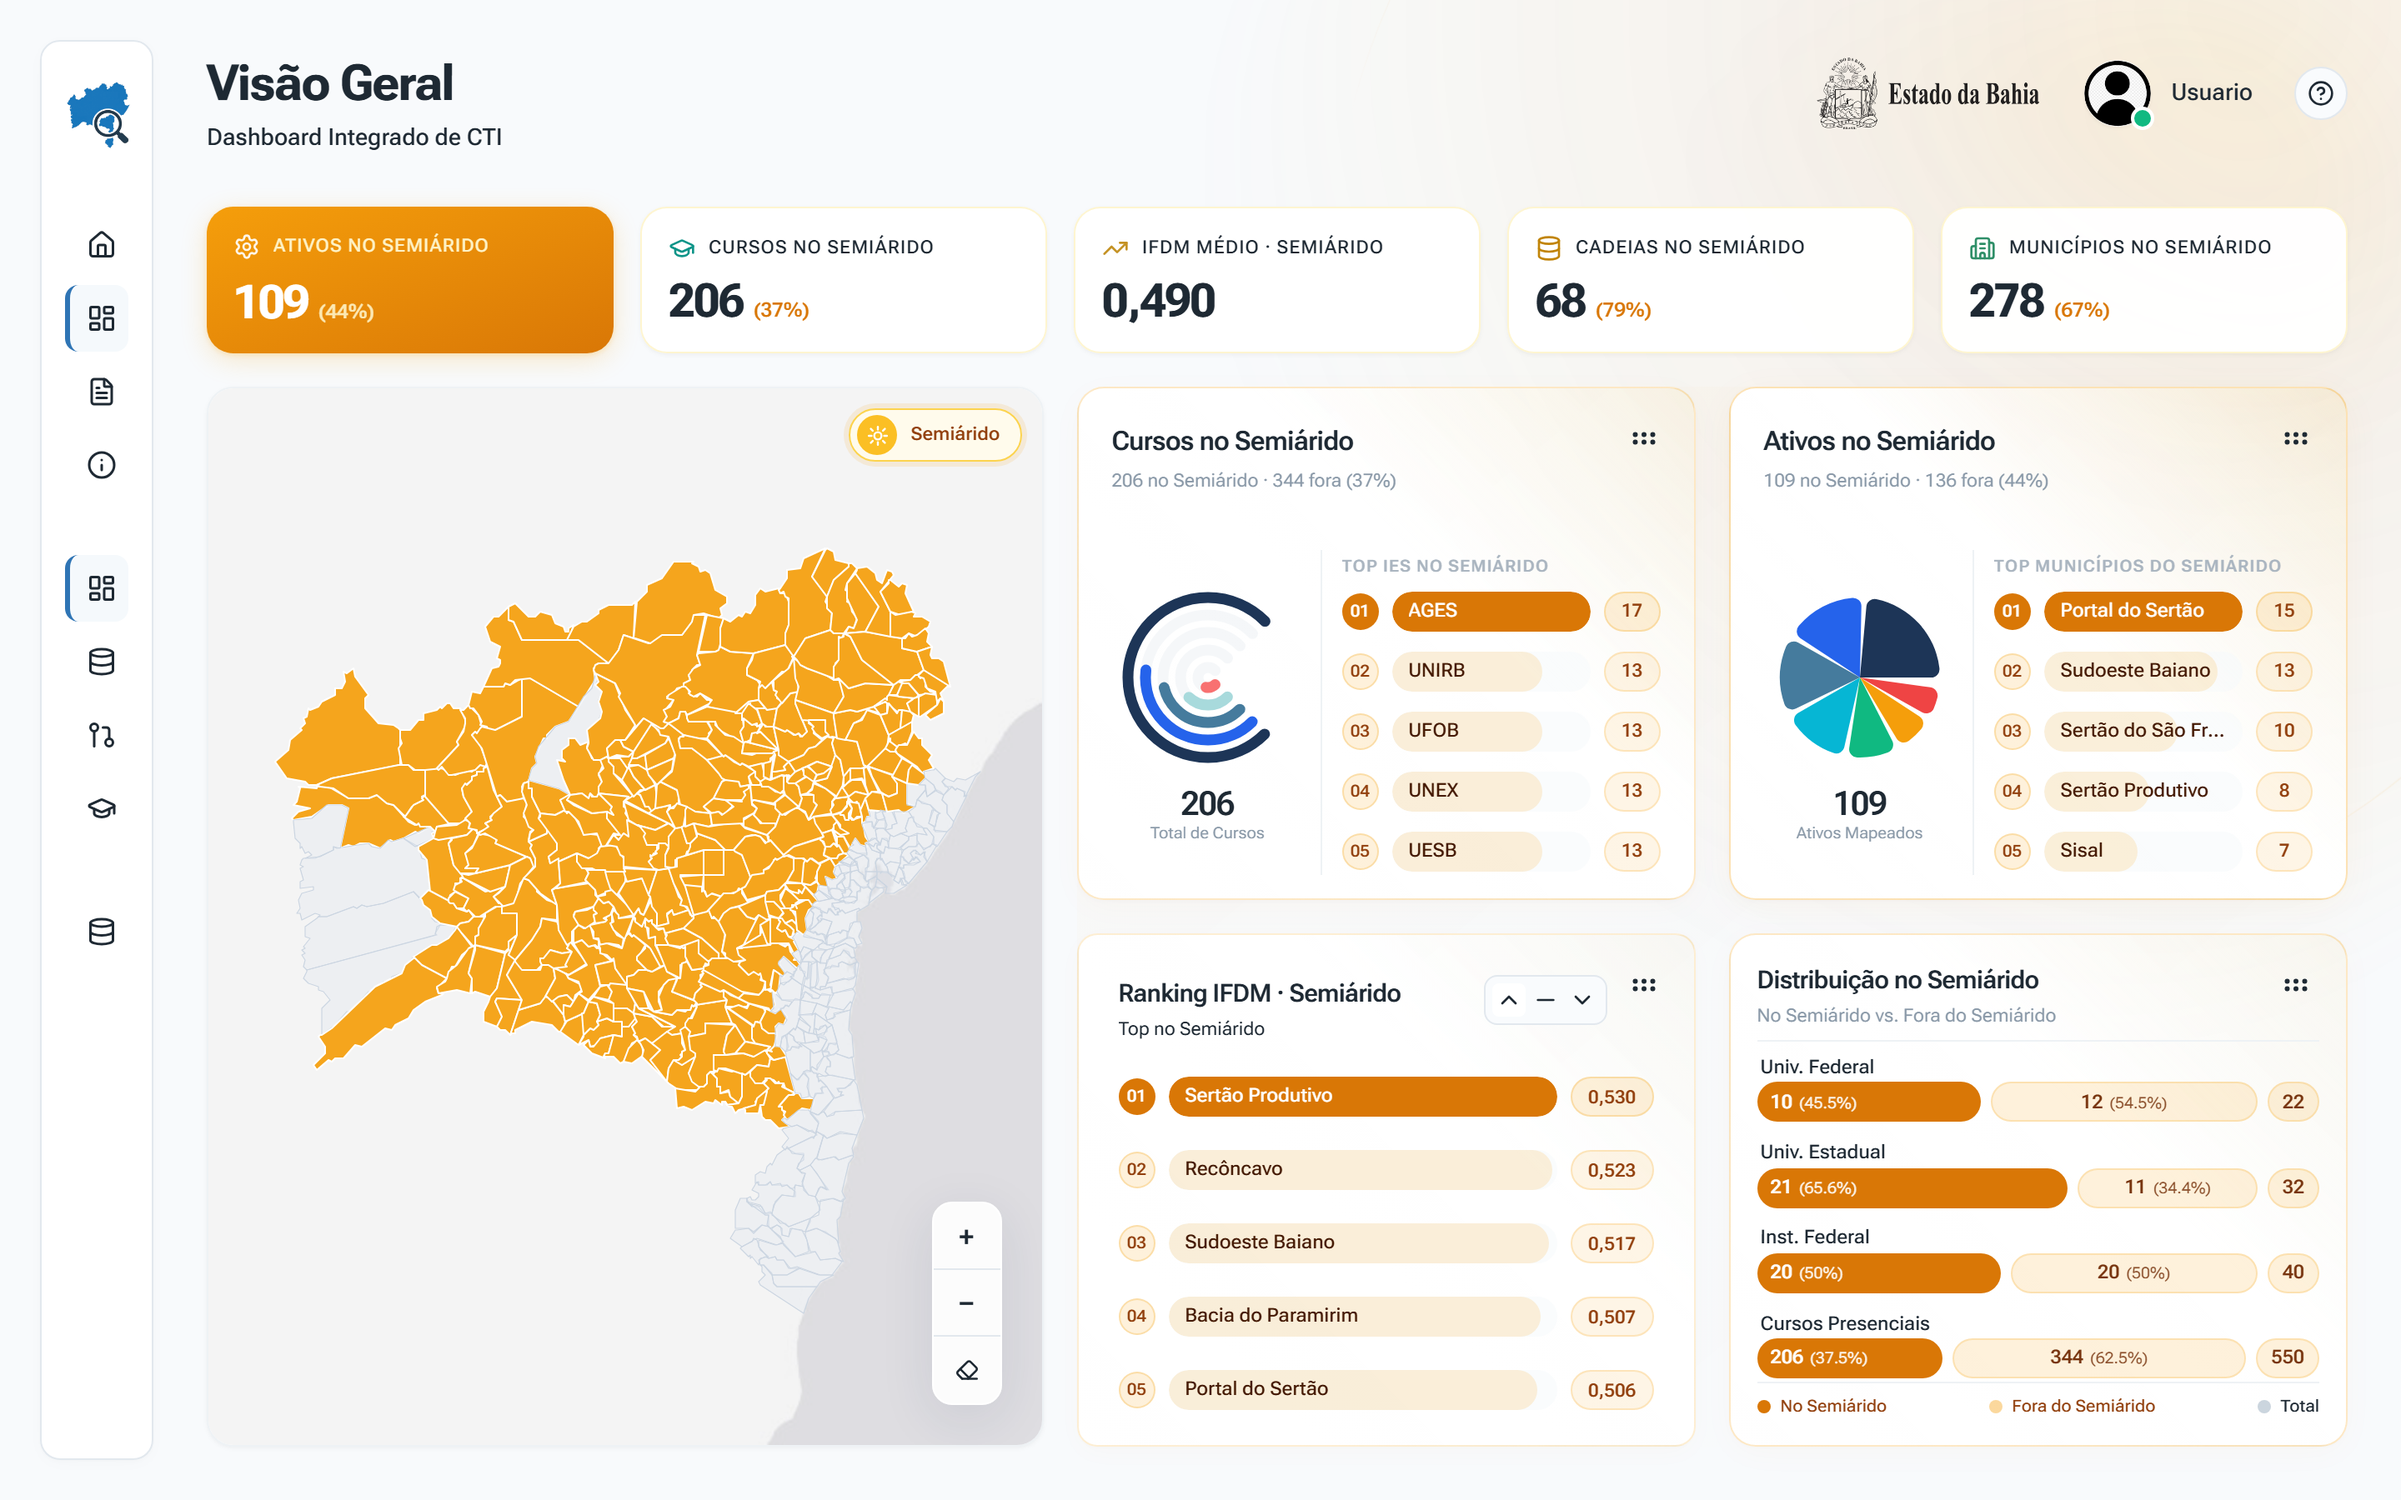
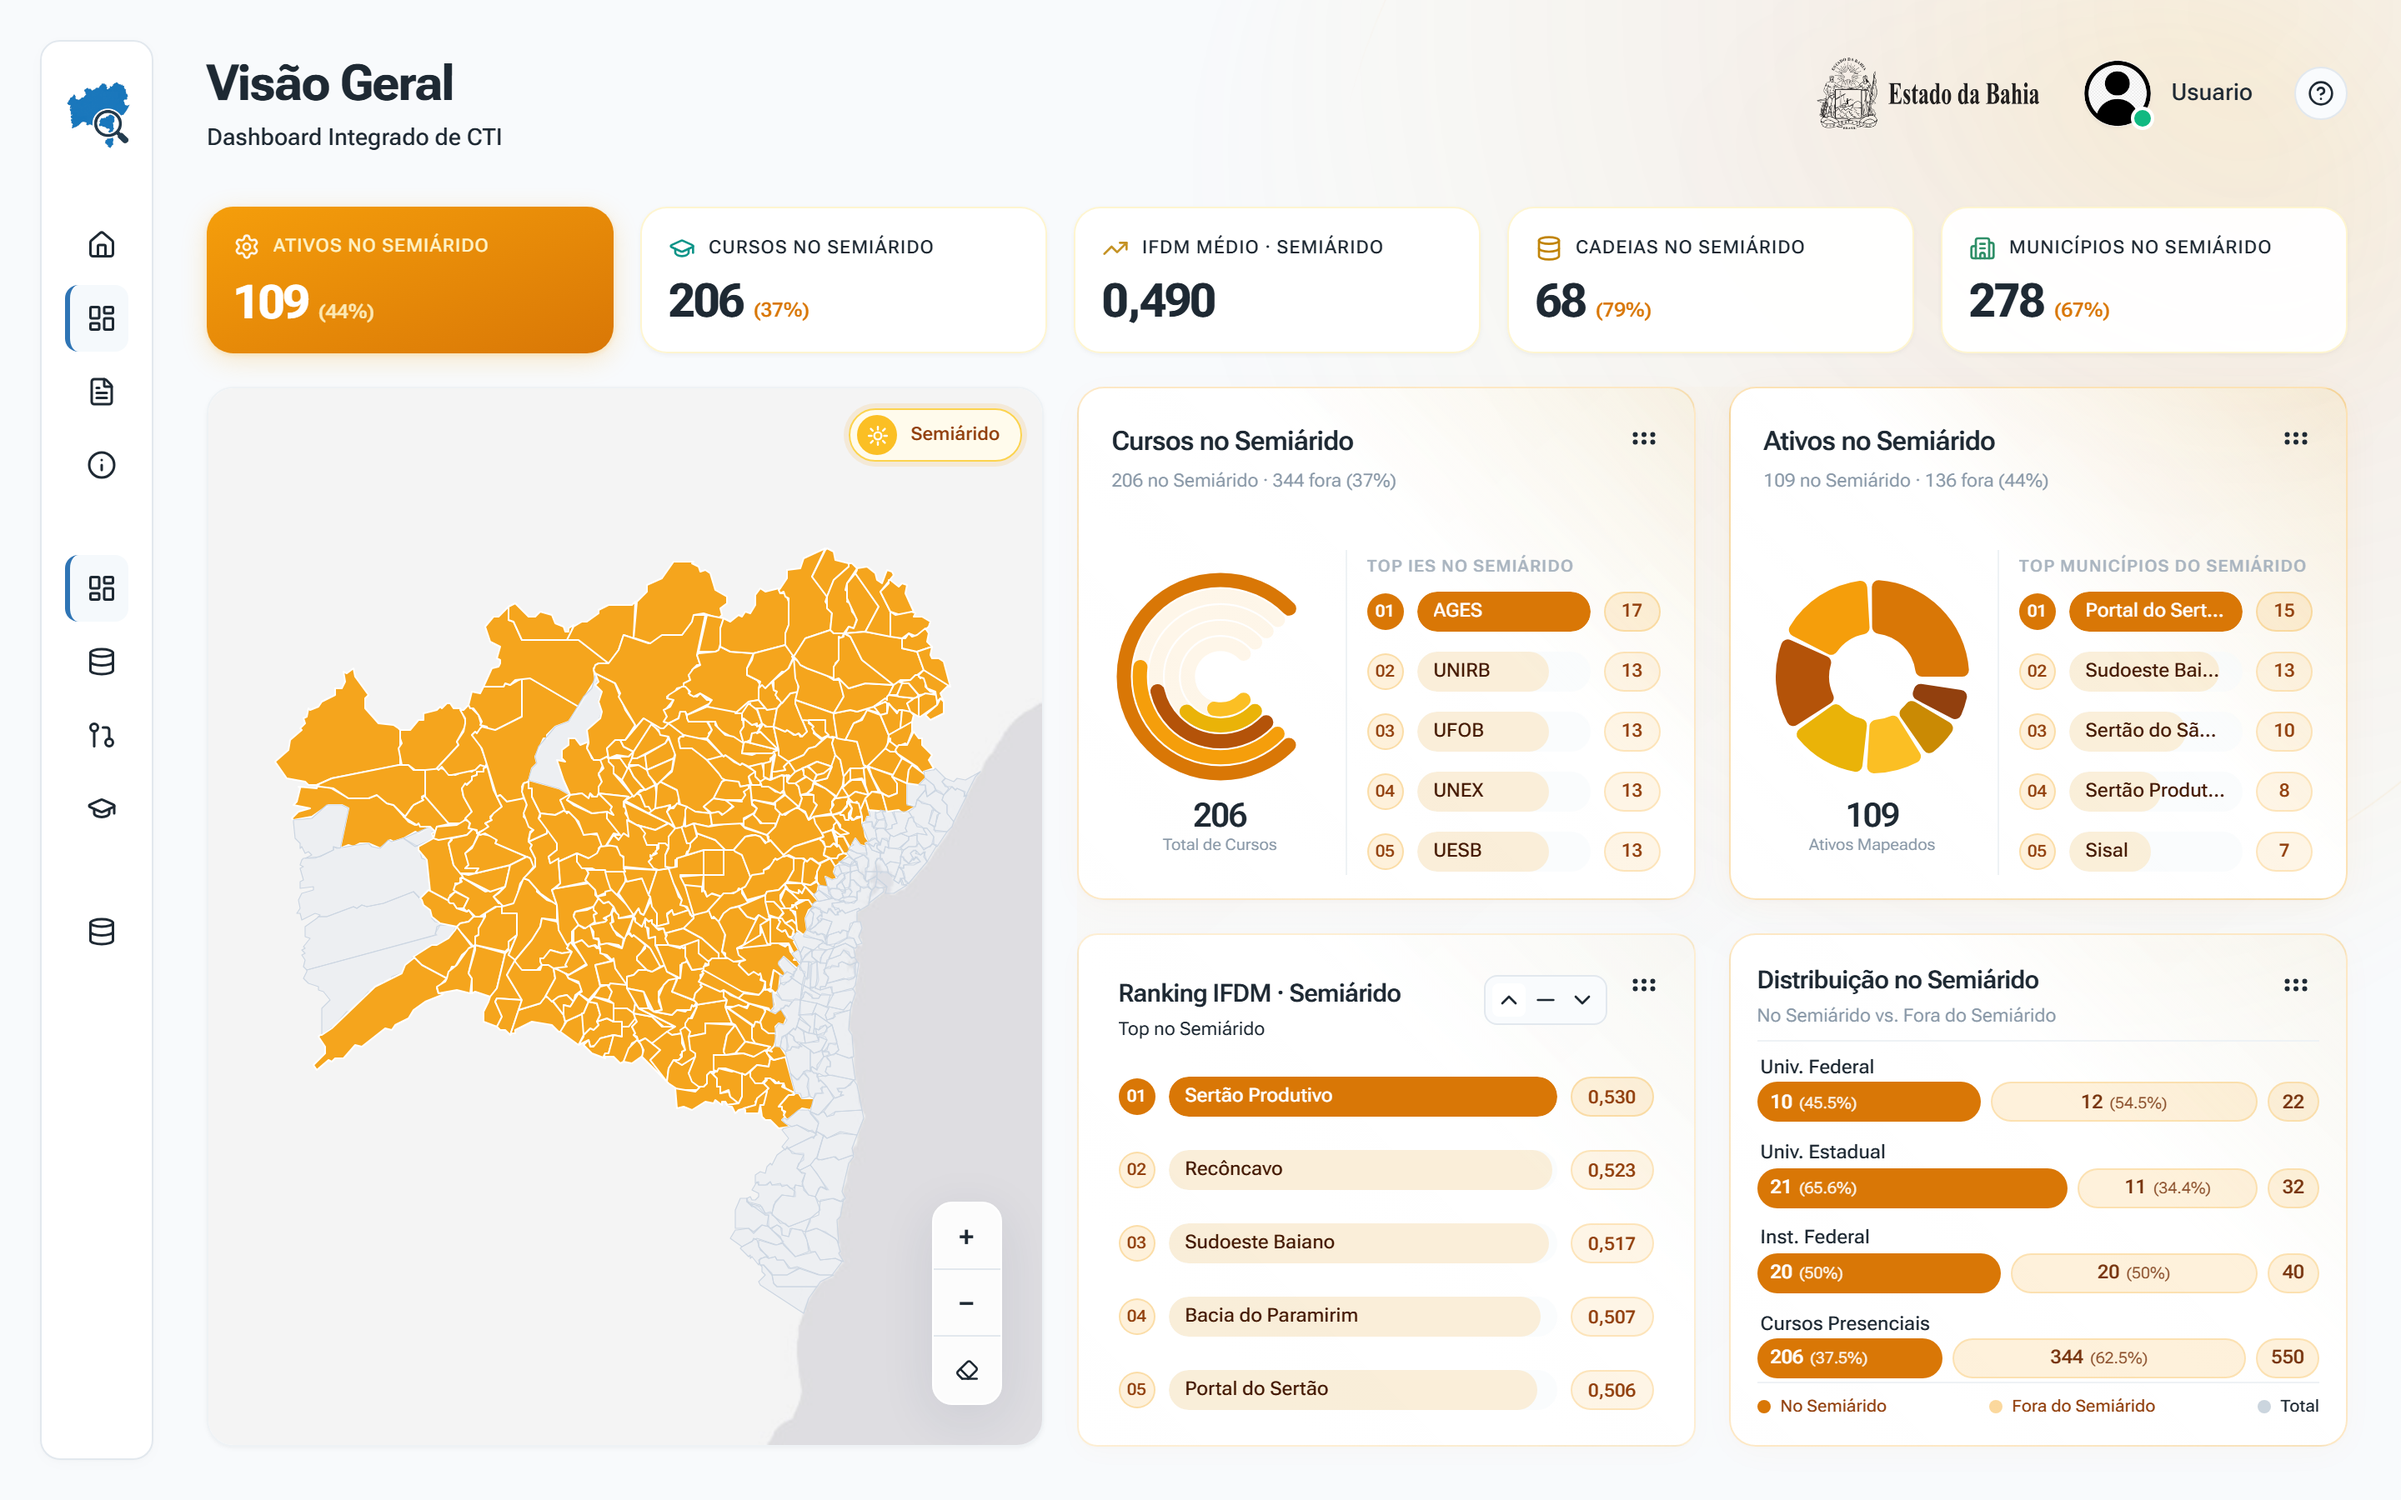
21

Changed region(s): [[0.7188, 0.3733, 0.9375, 0.5911], [0.4375, 0.3733, 0.6562, 0.5911]]

diff --git a/src/components/DashboardPainel.jsx b/src/components/DashboardPainel.jsx
@@ -197,13 +197,38 @@ export default function DashboardPainel() {
       counts[cat] = (counts[cat] || 0) + 1;
     });
 
-    const palette = ['#1D3557', '#2563EB', '#457B9D', '#A8DADC', '#F87171', '#F59E0B'];
+    const bluePalette = [
+      '#1D3557', // 1. Deep Navy
+      '#2563EB', // 2. Primary Royal Blue
+      '#0284C7', // 3. Vibrant Ocean Blue
+      '#3B82F6', // 4. Bright Blue
+      '#1E40AF', // 5. Cobalt Blue
+      '#0EA5E9', // 6. Sky Cyan Blue
+      '#38BDF8', // 7. Light Sky Blue
+      '#60A5FA', // 8. Soft Blue
+    ];
+
+    const goldenPalette = [
+      '#D97706', // 1. Amber 600 (Rich Gold)
+      '#F59E0B', // 2. Amber 500 (Vibrant Sun Gold)
+      '#B45309', // 3. Amber 700 (Deep Warm Bronze)
+      '#EAB308', // 4. Yellow 500 (Bright Gold)
+      '#FBBF24', // 5. Amber 400 (Warm Sun Yellow)
+      '#CA8A04', // 6. Yellow 600 (Deep Ochre Gold)
+      '#92400E', // 7. Amber 800 (Rich Dark Caramel)
+      '#FCD34D', // 8. Amber 300 (Soft Warm Gold)
+    ];
+
+    const palette = filtroSemiarido ? goldenPalette : bluePalette;
+
     return Object.entries(counts)
       .sort((a, b) => b[1] - a[1])
       .map(([label, value], idx) => ({
-        label, value, color: palette[idx % palette.length]
+        label,
+        value,
+        color: palette[idx % palette.length]
       }));
-  }, [activeScopedCursos]);
+  }, [activeScopedCursos, filtroSemiarido]);
 
   // Top Instituições de Ensino com Cursos
   const topEntidadesCursos = useMemo(() => {
@@ -259,7 +284,33 @@ export default function DashboardPainel() {
       counts[tipo] = (counts[tipo] || 0) + 1;
     });
 
-    const palette = ['#1D3557', '#2563EB', '#457B9D', '#06B6D4', '#10B981', '#F59E0B', '#EF4444', '#8B5CF6'];
+    const bluePalette = [
+      '#1D3557', // 1. Deep Navy
+      '#2563EB', // 2. Primary Royal Blue
+      '#0284C7', // 3. Vibrant Ocean Blue
+      '#3B82F6', // 4. Bright Blue
+      '#1E40AF', // 5. Cobalt Blue
+      '#0EA5E9', // 6. Sky Cyan Blue
+      '#38BDF8', // 7. Light Sky Blue
+      '#1E3A8A', // 8. Midnight Blue
+      '#60A5FA', // 9. Soft Blue
+      '#93C5FD'  // 10. Ice Sky Blue
+    ];
+
+    const goldenPalette = [
+      '#D97706', // 1. Amber 600 (Rich Gold)
+      '#F59E0B', // 2. Amber 500 (Vibrant Sun Gold)
+      '#B45309', // 3. Amber 700 (Deep Warm Bronze)
+      '#EAB308', // 4. Yellow 500 (Bright Gold)
+      '#FBBF24', // 5. Amber 400 (Warm Sun Yellow)
+      '#CA8A04', // 6. Yellow 600 (Deep Ochre Gold)
+      '#92400E', // 7. Amber 800 (Rich Dark Caramel)
+      '#FCD34D', // 8. Amber 300 (Soft Warm Gold)
+      '#A16207', // 9. Yellow 700 (Antique Gold)
+      '#FDE68A'  // 10. Amber 200 (Light Cream Gold)
+    ];
+
+    const palette = filtroSemiarido ? goldenPalette : bluePalette;
 
     return Object.entries(counts)
       .sort((a, b) => b[1] - a[1])
@@ -268,7 +319,7 @@ export default function DashboardPainel() {
         value,
         colorHex: palette[idx % palette.length]
       }));
-  }, [activeScopedAtivos]);
+  }, [activeScopedAtivos, filtroSemiarido]);
 
   // Top Territórios (ou Municípios se território selecionado) com mais ativos
   const topTerritoriosOuMunicipiosAtivos = useMemo(() => {

diff --git a/src/components/graph/DonutChart.jsx b/src/components/graph/DonutChart.jsx
@@ -24,20 +24,20 @@ export default function DonutChart({
  return () => clearTimeout(timer);
  }, []);
 
- const sortedData = [...data].sort((a, b) => b.value - a.value);
+ const sortedData = [...data].sort((a, b) => b.value - a.value).slice(0, 5);
  const maxValue = sortedData.length > 0 ? sortedData[0].value : 0;
- const totalValue = sortedData.reduce((acc, item) => acc + item.value, 0);
+ const totalValue = data.reduce((acc, item) => acc + item.value, 0);
 
  const normalizedData = sortedData.map(d => ({
  ...d,
  percent: maxValue > 0 ? d.value / maxValue : 0
  }));
 
-  const size = 115;
-  const strokeWidth = 6.5; 
-  const gap = 10.5; 
+  const size = 130;
+  const strokeWidth = 8.5; 
+  const gap = 9.6; 
   const center = size / 2;
-  const baseRadius = 48;
+  const baseRadius = 58;
   const arcFraction = 0.75;
 
  const displayValue = hoveredIndex !== null && normalizedData[hoveredIndex] 
@@ -72,7 +72,7 @@ export default function DonutChart({
   <div className="flex flex-row items-center justify-between flex-1 gap-2.5 min-w-0">
   
   {/* LADO ESQUERDO: GRÁFICO E RÓTULOS */}
-  <div className="flex flex-col items-center justify-center w-[115px] shrink-0">
+  <div className="flex flex-col items-center justify-center w-[130px] shrink-0">
   <div className="relative flex items-center justify-center shrink-0" style={{ width: size, height: size }}>
   <svg width={size} height={size} className="absolute inset-0" style={{ transform: 'rotate(45deg)' }}>
   {normalizedData.map((item, index) => {
@@ -93,7 +93,8 @@ export default function DonutChart({
   >
   <circle
   cx={center} cy={center} r={radius} fill="none"
-  stroke="rgb(var(--color-neutral-100))" strokeWidth={strokeWidth}
+  stroke={isSemiarido ? 'rgba(245, 158, 11, 0.15)' : 'rgba(226, 232, 240, 0.8)'}
+  strokeWidth={strokeWidth}
   strokeLinecap="round" strokeDasharray={`${trackLength} ${circumference}`}
   className={`transition-opacity duration-300 pointer-events-none ${isOtherHovered ? 'opacity-20' : 'opacity-60'}`}
   />

diff --git a/src/components/graph/CustomPieChart.jsx b/src/components/graph/CustomPieChart.jsx
@@ -81,20 +81,20 @@ export default function CustomPieChart({
   <div className="flex flex-row items-center justify-between flex-1 gap-2.5 min-w-0">
   
   {/* GRÁFICO */}
-  <div className="flex flex-col items-center justify-center w-[115px] shrink-0">
+  <div className="flex flex-col items-center justify-center w-[130px] shrink-0">
   <div className="relative">
-  <PieChart width={115} height={115}>
+  <PieChart width={130} height={130}>
   <Pie
   data={chartData}
   cx="50%"
   cy="50%"
-  innerRadius={0}
-  outerRadius={48}
-  paddingAngle={4}
-  cornerRadius={5}
+  innerRadius={26}
+  outerRadius={58}
+  paddingAngle={3}
+  cornerRadius={4}
   dataKey={valueKey}
   stroke="none"
-  minAngle={15}
+  minAngle={12}
   shape={(props) => {
   const { cx, cy, innerRadius, outerRadius, startAngle, endAngle, fill, cornerRadius, index } = props;
   const isHovered = hoveredIndex === index;
@@ -103,7 +103,7 @@ export default function CustomPieChart({
   return (
   <g
   style={{
-  transform: isHovered ? 'scale(1.08)' : 'scale(1)',
+  transform: isHovered ? 'scale(1.06)' : 'scale(1)',
   transformOrigin: `${cx}px ${cy}px`,
   transition: 'transform 0.35s cubic-bezier(0.34,1.56,0.64,1)'
   }}
